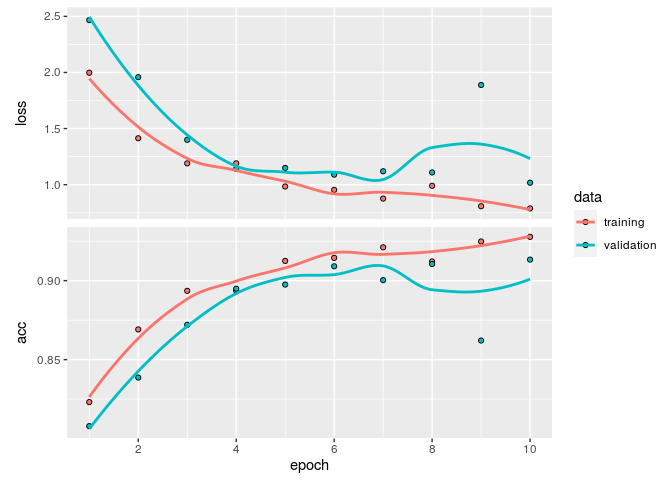
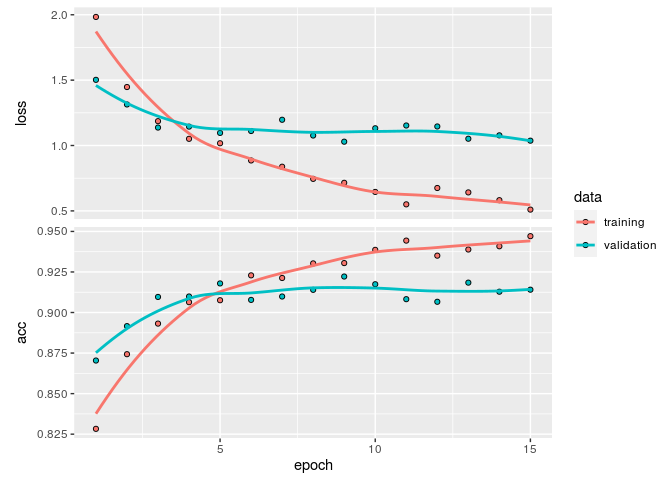
Fine tuning after epoch 4, 15 epochs of fine tuning

diff --git a/resnet50-lr-finder-and-cyclic-lr-with-r.md b/resnet50-lr-finder-and-cyclic-lr-with-r.md
@@ -287,8 +287,8 @@ str(batch)
 ```
 
     ## List of 2
-    ##  $ : num [1:32, 1:224, 1:224, 1:3] 89.2 79 80.2 64.1 75 ...
-    ##  $ : num [1:32, 1:4] 0 1 1 0 0 1 0 0 1 0 ...
+    ##  $ : num [1:32, 1:224, 1:224, 1:3] 166 252 151 251 77 ...
+    ##  $ : num [1:32, 1:4] 0 1 0 1 0 1 0 1 0 0 ...
 
 # Import pre-trained model
 
@@ -469,13 +469,13 @@ data <- data.frame("Learning_rate" = lr_hist, "Loss" = callback_log_acc_lr$loss)
 head(data)
 ```
 
-    ##   Learning_rate      Loss
-    ## 1  1.145048e-08 0.9743919
-    ## 2  1.311134e-08 1.2076546
-    ## 3  1.501311e-08 1.0008450
-    ## 4  1.719072e-08 1.1876563
-    ## 5  1.968419e-08 0.9926370
-    ## 6  2.253934e-08 1.1646078
+    ##   Learning_rate     Loss
+    ## 1  1.145048e-08 1.096695
+    ## 2  1.311134e-08 1.165954
+    ## 3  1.501311e-08 1.036784
+    ## 4  1.719072e-08 1.116353
+    ## 5  1.968419e-08 1.064520
+    ## 6  2.253934e-08 1.154365
 
 Learning rate vs loss
 :
@@ -716,7 +716,7 @@ list.files(checkpoint_dir)
 
 ``` r
 model %>% load_model_weights_hdf5(
-  file.path(checkpoint_dir,"weights.06.hdf5")
+  file.path(checkpoint_dir,"weights.04.hdf5")
 )
 ```
 
@@ -817,13 +817,13 @@ data <- data.frame("Learning_rate" = lr_hist, "Loss" = callback_log_acc_lr$loss)
 head(data)
 ```
 
-    ##   Learning_rate      Loss
-    ## 1  1.145048e-08 0.9743919
-    ## 2  1.311134e-08 1.2076546
-    ## 3  1.501311e-08 1.0008450
-    ## 4  1.719072e-08 1.1876563
-    ## 5  1.968419e-08 0.9926370
-    ## 6  2.253934e-08 1.1646078
+    ##   Learning_rate     Loss
+    ## 1  1.145048e-08 1.096695
+    ## 2  1.311134e-08 1.165954
+    ## 3  1.501311e-08 1.036784
+    ## 4  1.719072e-08 1.116353
+    ## 5  1.968419e-08 1.064520
+    ## 6  2.253934e-08 1.154365
 
 Learning rate vs loss
 :
@@ -840,7 +840,7 @@ ggplot(data, aes(x=Learning_rate, y=Loss)) + scale_x_log10() + geom_point() +  g
 
 ``` r
 n=40
-nb_epochs=10
+nb_epochs=15
 n_iter<-n*nb_epochs
 ```
 
